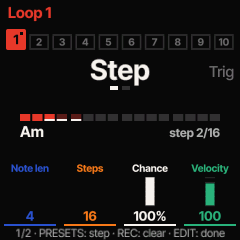
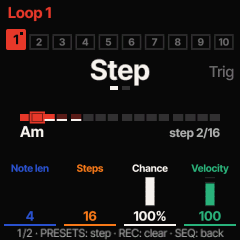
Docs: SEQ's cycle and the Metronome cell (LOOPER, MANUAL, INTEGRATION, SETTINGS, the 0.18 notes, HISTORY, the site, the loop editor's pictures)

Changed region(s): [[0.0583, 0.9333, 0.9625, 1.0], [0.1167, 0.4375, 0.2042, 0.525]]

diff --git a/web/site/index.html b/web/site/index.html
@@ -134,11 +134,11 @@
         <tr><td data-l="Printed">FX</td><td data-l="ChoralRoot"><span class="c-green">FX</span></td><td data-l="Tap">the effects on/off</td><td data-l="Hold">the FX layer: SELECT = the page (Sends, Reverb 1, Reverb 2, Chorus, Delay 1, Delay 2, Drive); KNOB 1–4 = its cells, Sends' four and KNOB 4 on an effect's first page = the chord part's sends; the effects and their sends are the instrument's and stay when the sound changes; the roots play; a tap is still on/off</td></tr>
         <tr><td data-l="Printed">ENV</td><td data-l="ChoralRoot"><span class="c-orange">BASS</span></td><td data-l="Tap">bass on/off (it comes back as last saved)</td><td data-l="Hold">the BASS layer: SELECT or KNOB 1 = Behaviour (Chords Only / Unison Bass / Bass Single Notes / Solo); KNOB 2–4 = Register / Sound / Level. BASS held + EDIT = the bass sound's editor</td></tr>
         <tr><td data-l="Printed">LFO</td><td data-l="ChoralRoot">LATCH</td><td data-l="Tap">latch on/off: notes sound on until the next ones; it keeps an arpeggio running</td><td data-l="Hold">—</td></tr>
-        <tr><td data-l="Printed">GLO</td><td data-l="ChoralRoot">OPT</td><td data-l="Tap">the Options open/close</td><td data-l="Hold">held + a knob = the knob's second job: PRESETS the chord sound's engine, ALGORITHM bass level, KNOB 1 split point, SELECT metronome level. In the editor: SHIFT</td></tr>
+        <tr><td data-l="Printed">GLO</td><td data-l="ChoralRoot">OPT</td><td data-l="Tap">the Options open/close</td><td data-l="Hold">held + a knob = the knob's second job: PRESETS the chord sound's engine, ALGORITHM bass level, KNOB 1 split point, SELECT metronome level; held + SEQ = metronome on/off. In the editor: SHIFT</td></tr>
         <tr><td data-l="Printed">HOME</td><td data-l="ChoralRoot">HOME</td><td data-l="Tap">back to the view from anywhere; on the view: the next view (Chord / Keyboard / Notes / Geek Out / Scope)</td><td data-l="Hold">0.6 s: the view menu: SELECT = the view, KNOB 1 = Lock</td></tr>
         <tr><td data-l="Printed">SAVE</td><td data-l="ChoralRoot">SAVE</td><td data-l="Tap">the save dialog: Overwrite, or Save as new, named with the keys</td><td data-l="Hold">save everything as it is now, the loop included (<code>saved</code>). With GLO, both held a second: back to the last save (<code>reverted</code>)</td></tr>
-        <tr><td data-l="Printed">SEQ</td><td data-l="ChoralRoot">METRO</td><td data-l="Tap">metronome on/off</td><td data-l="Hold">the METRO layer: SELECT = the time signature (4/4, 3/4, 6/8); KNOB 1 = the click's level</td></tr>
-        <tr><td data-l="Printed">PLAY</td><td data-l="ChoralRoot"><span class="c-red">LOOP</span></td><td data-l="Tap">play / stop the loop (green light = it plays); while recording: ends the take</td><td data-l="Hold">the PLAY menu: PRESETS = the slot, 1–10; ALGORITHM = the record mode; SELECT = the page; KNOB 1–4 = Length / Rate / Quantize / Count-in, page 2: KNOB 1 = Level; GLO = the keys play or pick slots; EDIT = the loop editor</td></tr>
+        <tr><td data-l="Printed">SEQ</td><td data-l="ChoralRoot">METRO</td><td data-l="Tap">the loop editor (the loop as a pattern of steps); again: the PLAY menu; again: back to the view. With GLO held: metronome on/off</td><td data-l="Hold">the METRO layer: SELECT = the time signature (4/4, 3/4, 6/8); KNOB 1 = the click's level</td></tr>
+        <tr><td data-l="Printed">PLAY</td><td data-l="ChoralRoot"><span class="c-red">LOOP</span></td><td data-l="Tap">play / stop the loop (green light = it plays); while recording: ends the take</td><td data-l="Hold">the PLAY menu: PRESETS = the slot, 1–10; ALGORITHM = the record mode; SELECT = the page; KNOB 1–4 = Length / Rate / Quantize / Count-in, page 2: KNOB 1 = Level, KNOB 2 = Metronome; GLO = the keys play or pick slots; EDIT = the loop editor</td></tr>
         <tr><td data-l="Printed">REC</td><td data-l="ChoralRoot"><span class="c-red">REC</span></td><td data-l="Tap">record, the way the record mode says; again: ends the take. The REC light blinks while recording</td><td data-l="Hold">undo the last layer</td></tr>
         <tr><td data-l="Printed">EDIT</td><td data-l="ChoralRoot">EDIT</td><td data-l="Tap">the sound editor on the chord sound</td><td data-l="Hold">the engine picker</td></tr>
         <tr><td data-l="Printed">OCT− / OCT+</td><td data-l="ChoralRoot">OCTAVE</td><td data-l="Tap">the octave of the roots; in layers, menus and dialogs: back (closes) / confirm (closes too where there is nothing to confirm)</td><td data-l="Hold">both together: PANIC (every note off, on MIDI too; the octave back to 0, the LOCK latch cleared, LATCH off, the loop stopped)</td></tr>

diff --git a/docs/MANUAL.md b/docs/MANUAL.md
@@ -148,7 +148,7 @@ Two rows of six, and the two octave buttons.
 | HOME | **HOME** | back to the view; on the view: the next view | 0.6 s: the view menu |
 | SAVE | **SAVE** | save the sound | held: **save everything** (`saved`). GLO + SAVE held 1 s: back to the last save (`reverted`) |
 | ARP | **PERF** | performance on / off | the PERF layer |
-| SEQ | **METRO** | metronome on / off | the METRO layer |
+| SEQ | **METRO** | the loop editor, then the PLAY menu, then back to the view ([The loop editor](#the-loop-editor)). With OPT (GLO) held: metronome on / off | the METRO layer |
 | PLAY | **LOOP** | play / stop the loop | the PLAY menu |
 | REC | **REC** | record | undo the last layer |
 | OCT- / OCT+ | octave | the roots an octave down / up; in layers, menus and dialogs: back / OK | both together: PANIC |
@@ -198,7 +198,9 @@ MIDI message wakes it and does its normal job at the same time.
 
 | Light | Means |
 | --- | --- |
-| KEY, PERF, FX, BASS, LATCH, METRO lit | that function is on |
+| KEY, PERF, FX, BASS, LATCH lit | that function is on |
+| METRO (SEQ) and EDIT blinking together | the loop editor is open: either of them goes back to the PLAY menu |
+| METRO (SEQ) lit | the PLAY menu is open: SEQ leaves it |
 | a layer button blinking | its layer is open |
 | EDIT blinking | the sound editor (or the engine picker) is open |
 | OPT lit | the Options are open (in the PLAY menu: Keys = Loops; in the KEY layer: its keys play; in the editor: SHIFT) |
@@ -459,7 +461,7 @@ KEY, PERF, FX, BASS, METRO and LOOP.
 | PERF | PERF (ARP) | the performance mode | play as usual | performance on / off | close |
 | FX | FX | the effect | play as usual | effects on / off | close |
 | BASS | BASS (ENV) | the bass behaviour | the white keys D4 E4 F4 G4 pick the behaviour; nothing sounds | bass on / off | close |
-| METRO | METRO (SEQ) | the time signature | D4 E4 F4 pick 4/4, 3/4, 6/8 | metronome on / off | close |
+| METRO | METRO (SEQ) | the time signature | D4 E4 F4 pick 4/4, 3/4, 6/8 | metronome on / off (in this layer only; on the view a tap is the loop editor) | close |
 | PLAY menu | LOOP (PLAY) | see [The looper](#10-the-looper) | play, or pick loop slots | play / stop | close (in step entry: back a step / a rest) |
 
 Three more things open the same way and are described in their own chapters: **EDIT** held is the engine picker
@@ -644,7 +646,10 @@ one to three short gaps in it ([What the FM-1 remembers](#what-the-fm-1-remember
 ## 9. Tempo and metronome
 
 - **SELECT** sets the tempo, 20 to 300 BPM. Arpeggios, patterns, the delay, the loop and the MIDI clock follow it.
-- **METRO** (printed SEQ) tap switches the click on and off (`metronome on`).
+- The click is switched on and off in the **PLAY menu**: hold LOOP, turn SELECT to page 2, **KNOB 2 is Metronome**,
+  On or Off.
+- From anywhere outside the sound editor, **hold OPT (GLO) and tap METRO** (printed SEQ) for the same thing
+  (`metronome on`). METRO tapped by itself opens the loop editor (until 0.18 it was the click).
 - Hold METRO for the **METRO layer**: SELECT (or D4, E4, F4) picks the time signature, 4/4, 3/4 or 6/8; KNOB 1 is the
   click's level. OPT + SELECT sets the level without opening the layer.
 - The click is not part of the USB recording.
@@ -710,9 +715,11 @@ playing and recording with it open.
 | page 1, KNOB 2 | **Rate**: x1/16, x1/12, x1/8, x1/6, x1/4, x1/2, x3/4, x1, x1.5, x2, x4 | x1 |
 | page 1, KNOB 3 | **Quantize**: none, 1/4, 1/8, 1/8T, 1/16, 1/16T, 1/32 | none |
 | page 1, KNOB 4 | **Count-in**: On or Off | On |
-| page 2, KNOB 1 | **Level**: how loud the loop plays, 0 to 100 (0 mutes it). KNOB 2 to 4 do nothing on this page | 100 |
+| page 2, KNOB 1 | **Level**: how loud the loop plays, 0 to 100 (0 mutes it) | 100 |
+| page 2, KNOB 2 | **Metronome**: On or Off ([Tempo and metronome](#9-tempo-and-metronome)). KNOB 3 and 4 do nothing on this page | Off |
 | OPT (GLO) tap | **what the keys do** in the menu: play, or the loop shortcuts (below). The bottom line says which. The Options do not open from here | play |
 | EDIT | the **loop editor** ([below](#the-loop-editor)) | |
+| METRO (SEQ) | leaves the PLAY menu, back to the main screen (its light is lit while the menu is open) | |
 
 While a loop records or plays, the middle of the menu is a timeline: the bars, a line of marks for each layer, the
 playhead. These settings are kept by a global save (SAVE held), like the rest of how the FM-1 is set up to play.
@@ -779,8 +786,12 @@ number.
 
 ### The loop editor
 
-In the PLAY menu, tap **EDIT**. The loop in memory is shown as a pattern of steps, and you can change it one step at a
-time. (Outside the PLAY menu EDIT is the sound editor, as ever.)
+On the main screen, tap **SEQ** (the METRO button). The loop in memory is shown as a pattern of steps, and you can
+change it one step at a time. **SEQ goes round three places**: the main screen, the loop editor, the PLAY menu, and
+the main screen again. So from the editor one tap of SEQ is the PLAY menu (the slots, the record mode, Length, Rate,
+the metronome) and one more is back where you started. In the PLAY menu **EDIT** opens the same editor. (Outside the
+PLAY menu EDIT is the sound editor, as ever.) SEQ does not open the editor from another layer, the Options or the
+sound editor, and not while a take is being recorded (`end the take first`).
 
 <img src="manual/loop-editor.png" width="240" alt="The loop editor, page Step: a row of sixteen steps, three red, the second outlined, a white line under the next three; Am, step 2/16; cells Note len 4, Steps 16, Chance 100%, Velocity 100">
 <img src="manual/loop-editor-trig.png" width="240" alt="The loop editor, page Trig: the same row, the second step with a notch in its corner; cells Ratchet x2, Condition 1:2, Voicing +2">
@@ -809,7 +820,8 @@ chord is named under the grid. While the loop plays, the step being played light
 | KNOB 3 | **Voicing**: Follow, or a voicing of its own, -12 to +12 (the same as ALGORITHM) |
 | LOOP tap | play / stop, as ever, so you hear the edits in place. The cursor does not follow the playback; the white step does |
 | REC held | the looper's undo (see below) |
-| HOME, EDIT (tap or hold) | close the editor, back to the PLAY menu. Nothing to confirm: an edit is done when you make it |
+| SEQ, EDIT (tap or hold), LOOP held | close the editor, back to the PLAY menu. Nothing to confirm: an edit is done when you make it. The bottom line says `SEQ: back` |
+| HOME | closes the editor and the PLAY menu: the main screen |
 
 **Ratchet, Condition, Chance and Voicing belong to the step**: to everything that starts in it, the chord and, with
 Split Bass, the bass note. A step that has a ratchet, a condition or a chance under 100 % shows a small notch in its
@@ -1464,7 +1476,7 @@ More: [BOOT-SAFETY.md](BOOT-SAFETY.md), [INSTALL-COMPAT.md](INSTALL-COMPAT.md), 
 | The chord sound is silent, the bass plays | Bass Behaviour is Solo (`Bass Solo`) | BASS layer, another behaviour, or tap BASS |
 | No bass | the bass is off (a new unit, a reset, or you switched it off) | tap BASS |
 | The bass layer's keys make no sound | in that layer the white keys pick the behaviour | close the layer to play |
-| The loop plays but is silent | its Level is 0 | PLAY menu, KNOB 3 |
+| The loop plays but is silent | its Level is 0 | PLAY menu, page 2, KNOB 1 |
 | REC replaced my loop | the record mode is Overwrite | PLAY menu, ALGORITHM: Overdub. Before the first chord, REC again cancels |
 | In step entry two notes land on the same step | they were held together | let go of the first before pressing the next; OCT- goes back |
 | Step entry says `64 steps: full` | a pattern has 64 steps at most | REC to finish; OCT- to go back and change a step |
@@ -1508,12 +1520,12 @@ A held layer button opens its layer and it stays; holding the same button again 
 | ENV | BASS | bass on / off | BASS layer: SELECT behaviour · KNOB 1 Behaviour · 2 Register · 3 Sound · 4 Level. Held + EDIT: edit the bass sound. Held + SAVE: save it |
 | LFO | LATCH | latch on / off | |
 | EDIT | EDIT | the sound editor; in it: leave | the engine picker: SELECT engine · KNOB 1 presets · KNOB 2 init · the keys play · OCT+ keep · OCT- cancel |
-| GLO | OPT | Options (SELECT setting · KNOB 1 value). In the PLAY menu: its keys play / loops. In the KEY layer: its keys pick / play. In the editor: SHIFT latch | + **SAVE, both held 1 s: revert to the last save** · + PRESETS: engine · + ALGORITHM: bass level · + KNOB 1: split point · + SELECT: click level. In the editor: fine steps; + EDIT: chord / bass sound |
+| GLO | OPT | Options (SELECT setting · KNOB 1 value). In the PLAY menu: its keys play / loops. In the KEY layer: its keys pick / play. In the editor: SHIFT latch | + **SAVE, both held 1 s: revert to the last save** · + PRESETS: engine · + ALGORITHM: bass level · + KNOB 1: split point · + SELECT: click level · + SEQ: metronome on / off. In the editor: fine steps; + EDIT: chord / bass sound |
 | HOME | HOME | back; on the view: next view | 0.6 s: the view menu (SELECT view · KNOB 1 lock) |
 | SAVE | SAVE | the save dialog: KNOB 1 Overwrite / Save as new · OCT+ takes it · held 1 s: delete / reset | **the global save**: everything as it is now, and the loop (`saved`). With GLO, both held 1 s: revert (`reverted`) |
 | ARP | PERF | performance on / off (in its layer too) | PERF layer: SELECT mode · KNOB 1-4 its parameters |
-| SEQ | METRO | metronome on / off | METRO layer: SELECT time signature · KNOB 1 Click |
-| PLAY | LOOP | play / stop the loop; ends a take | PLAY menu: PRESETS slot · ALGORITHM record mode · SELECT page · page 1: KNOB 1 Length · 2 Rate · 3 Quantize · 4 Count-in · page 2: KNOB 1 Level · GLO: its keys play / loops · EDIT: the loop editor (PRESETS step, with GLO 8 steps · SELECT page · ALGORITHM the step's voicing · the keys replace it · REC clears it · OCT the octave · page 1: KNOB 1 Note len · 2 Steps, with GLO to 8 16 32 48 64 · 3 Chance · 4 Velocity · page 2: KNOB 1 Ratchet · 2 Condition · 3 Voicing · HOME or EDIT closes it) |
+| SEQ | METRO | the loop editor; in it: the PLAY menu; in the PLAY menu: leave. With GLO held: metronome on / off | METRO layer: SELECT time signature · KNOB 1 Click · a tap there: metronome on / off |
+| PLAY | LOOP | play / stop the loop; ends a take | PLAY menu: PRESETS slot · ALGORITHM record mode · SELECT page · page 1: KNOB 1 Length · 2 Rate · 3 Quantize · 4 Count-in · page 2: KNOB 1 Level · 2 Metronome · GLO: its keys play / loops · SEQ: leave · EDIT: the loop editor (PRESETS step, with GLO 8 steps · SELECT page · ALGORITHM the step's voicing · the keys replace it · REC clears it · OCT the octave · page 1: KNOB 1 Note len · 2 Steps, with GLO to 8 16 32 48 64 · 3 Chance · 4 Velocity · page 2: KNOB 1 Ratchet · 2 Condition · 3 Voicing · SEQ, EDIT or LOOP held: the PLAY menu · HOME: the view) |
 | REC | REC | record by the record mode; ends a take; cancels when armed | undo the last layer |
 | OCT- | octave down | roots down an octave (to -2). In layers, menus, dialogs: back / cancel (closes). In step entry: back a step | in the editor, + a knob: clear that parameter's modulation |
 | OCT+ | octave up | roots up an octave (to +2). In layers, menus, dialogs: confirm (keep, save, do it); where there is nothing to confirm it closes, as OCT-. In step entry: a rest | |

diff --git a/docs/LOOPER.md b/docs/LOOPER.md
@@ -78,8 +78,10 @@ chord part. Until 0.17 it was recorded as an ordinary single note and came back 
 - **Clear**: D#4 held 1 s in the PLAY menu with its keys on loops (GLO). **Panic**: stops, keeps the
   loop; a fresh take is dropped (a take only armed or counting in: the loop kept), a partial overdub kept. **Level**
   (page 2, KNOB 1) scales the loop's velocities (0 = mute).
-- **Metronome**: METRO tap = click on/off (on the take's / the loop's / its own grid), held = 4/4 3/4 6/8 picker,
-  KNOB 1 there or OPT + SELECT = click level. The click is a 25 ms two-pole sine burst mixed after fx.c (cr_out.c
+- **Metronome**: on / off in the PLAY menu (page 2, KNOB 2) or by GLO held + SEQ from anywhere but the sound editor
+  (`metronome on`; SEQ's tap was the click until 2026-10-11: it is the loop editor's key now, below); it clicks on the
+  take's / the loop's / its own grid. SEQ (METRO) held = 4/4 3/4 6/8 picker (a SEQ tap in that layer is still the
+  click on / off: the layer's own button), KNOB 1 there or OPT + SELECT = click level. The click is a 25 ms two-pole sine burst mixed after fx.c (cr_out.c
   `cr_click_mix`), 2.5 kHz on the bar's first beat.
 
 ## The Rate (0.18)
@@ -211,9 +213,10 @@ stops; in step entry OCT+ is a rest and OCT- a step back). Mock-ups: `design/cho
 | ALGORITHM | the **record mode** (Overwrite · Advance · Overdub · Replace · Step, the picker band) |
 | SELECT | the **page** (`cu.lpage`, the first whenever the menu opens; the owner 2026-10-11: "turn the select knob to change the page. It currently changes length") |
 | page 1: KNOB 1 / 2 / 3 / 4 | **Length** (Free 1 2 4 8 16 bars; also big in the middle while idle; while the timeline shows, the message "next take: 4 bars") / **Rate** (x1/16 .. x4) / **Quantize** (echoes) / **Count-in** (gate): the cell hot 800 ms, no popup |
-| page 2: KNOB 1 | **Level** (bar); KNOB 2 .. 4: nothing (empty cells) |
+| page 2: KNOB 1 / 2 | **Level** (bar) / **Metronome** (On / Off, the gate glyph as Count-in: right on, left off; `cs.metro`, stored where it was: the owner 2026-10-11: "Add Metronome to the second param page of the play menu"); KNOB 3 / 4: nothing (empty cells) |
 | GLO tap | **the keys**: play (default) = the roots and the chord block play as on the chord view, so the menu stays open while you play into a take; loops = the slot shortcuts (white roots D4..F5 slots 1..10, D#4 held 1 s clear, F#4 undo) and their LED map, GLO lit. No Options from this menu. The Keys cell of 0.17 (KNOB 4) is gone: "get rid of the Keys / play shortcut and map this to the GLO button like in other pages" |
 | EDIT tap | **the loop editor** (below) |
+| SEQ tap | **out of the menu**, to the view, however the menu was entered (the third step of SEQ's cycle: the view, the editor, the PLAY menu, the view; below). SEQ's LED is lit in the menu |
 | REC tap / held | by the record mode / undo, as outside the menu |
 | LOOP held again | closes the menu. **With a knob turned while LOOP is still down the menu opens again and the knob acts in it** (2026-10-13): until then LOOP held + PRESETS with the menu already open chose a slot when turned within the hold time and changed the chord sound's preset when turned after it, the menu having closed under the hand ("sometimes in the play menu turning the preset knob ends up changing the preset"; `cu.hclosed`, `tools/emu/scripts/cr_loop_presetknob.txt`). The same for every layer's own button |
 
@@ -238,7 +241,7 @@ the right "Rec · Overwrite" (armed: the mode; also outside the menu), "Rec 2.4"
 | --- | --- | --- |
 | LOOP tap | play (a take: commit; step entry: commit and play) | stop |
 | LOOP held | the PLAY menu (above) | the same, the timeline in the middle, the corner dial in the top line |
-| EDIT tap in the PLAY menu | the loop editor | the same (the loop plays on) |
+| SEQ tap on the view; EDIT tap in the PLAY menu | the loop editor | the same (the loop plays on) |
 | REC tap | by the record mode (above) | the same; ends a take / layer / step entry |
 | REC held | undo: the layers left huge in red ("layers · undo"); none: "nothing to undo" | the same |
 | OCT+ / OCT- in step entry | a rest / back one step | — |
@@ -306,6 +309,7 @@ version 1, and 0.14 .. 0.17 read an edited loop's record as any other (`tests/cr
 
 | gesture | does |
 | --- | --- |
+| **SEQ tap on the view** (2026-10-11) | opens it from the main screen, whichever view shows, with the same refusals (then SEQ does nothing else) and the same empty pattern as below (`cu_seq_tap`: the PLAY menu is locked open under it). **SEQ is a cycle of three**: the view -> the editor -> the PLAY menu (the editor closed, the menu as if LOOP had been held) -> the view. The owner: "The edit sequence is a bit buried, hold Play, then press edit. Most people won't find this ... from Main level you should be able to press the seq key to enter the edit sequence menu", then: "press once -> sequencer, press SEQ a second time -> Play menu, press SEQ a third time -> Exit". In KEY, PERF, FX, BASS, LOCK, the view menu, the engine picker, the Options and the save dialog SEQ tapped does nothing (it toggled the click there); in the sound editor it is the MOD group; in the METRO layer the click on / off |
 | EDIT tap in the PLAY menu | opens it (`cr_loop_ed_open`), **at any Quantize setting** (the first build refused a loop with Quantize none: `set Quantize to edit`). Refused: a slot switch on its way (`a slot is on its way`); a capture open (`end the take first`). An empty slot: an empty pattern of the set Length (Free: a bar, 16 steps; more than 64 steps: its first whole bars within 64), which is the slot empty again if nothing is entered |
 | PRESETS | the **step cursor**, a step a detent, wrapping at the loop's end (`cu_ledit_move`). **GLO held + PRESETS**: 8 steps a detent, wrapping the same way. Never the slot, never the chord sound, while the editor is open. (Until 2026-10-13 the cursor was SELECT and KNOB 1) |
 | SELECT | the editor's **page**, clamped: 1 **Step**, 2 **Trig** (`cu.le_page`, the first whenever it opens). The page's name stands where the record mode does, with the picker's two marks; the bottom line begins `1/2` / `2/2` |
@@ -327,7 +331,9 @@ version 1, and 0.14 .. 0.17 read an edited loop's record as any other (`tests/cr
 | LOOP tap | play / stop from the loop's start, as ever; the cursor does not follow the playback, the playhead shows it. A length changed under the playhead: the playhead where it is in the new cycle (`crl_ed_renorm`) |
 | REC held | the looper's undo, as outside (below) |
 | GLO tapped | nothing (the keys play; GLO held is the shift of PRESETS and Steps above) |
-| HOME / EDIT tapped / EDIT held again | close it, back to the PLAY menu (`cr_loop_ed_close`): nothing to confirm, an edit is applied when it is made. LOOP held again, another layer, a revert: the menu and the editor close. A knob turned while EDIT is still down after closing it by the hold does nothing (it would be the PLAY menu's: PRESETS there is the slot) |
+| SEQ / EDIT tapped, EDIT or SEQ held again | close it, back to the PLAY menu (`cr_loop_ed_close`), however it was opened: nothing to confirm, an edit is applied when it is made. A knob turned while EDIT or SEQ is still down after closing it by the hold does nothing (it would be the PLAY menu's: PRESETS there is the slot). **No METRO layer from the editor**: SEQ held there closes it, and SEQ held + a knob inside the hold time leaves the knob the editor's (`cu_activity`; `tools/emu/scripts/cr_seq.txt`) |
+| **LOOP held** | the PLAY menu: the editor closes, the menu stays (the owner, 2026-10-11: "from the Sequencer, holding the play key should enter the Play Menu, not return to home"; until then it closed the menu with the editor). A knob turned with LOOP still down is the menu's (PRESETS: the slot), never the sound's. A LOOP tap is play / stop as ever, the editor stays |
+| HOME | the view: the editor and the menu close (it went back to the PLAY menu until 2026-10-11; with SEQ's cycle HOME is "home" here as everywhere). Another layer, a revert: the same |
 
 ### Ratchet, condition, chance, voicing (2026-10-13; `crl_data_t.st`, `cr_loop.c crl_play_ev`)
 
@@ -386,7 +392,8 @@ sounds on into carry a white line along their bottom (`lm_lane[2]`), so turning 
 over the following steps and to move nothing. While the loop plays, the step being played is white (grey when empty:
 `CR_LM_PLAY` in `lm_pos`; only its rows' strips are redrawn). Under the grid the selected step's chord, big, and `step
 5/16`; the cells Note len / Steps / Chance / Velocity (page 1) or Ratchet / Condition / Voicing (page 2); the bottom
-line `1/2 · PRESETS: step · REC: clear · EDIT: done`. **A take longer than 64 steps is paged**: the cursor walks all its
+line `1/2 · PRESETS: step · REC: clear · SEQ: back` (`EDIT: done` until 2026-10-11; both keys go back to the PLAY
+menu, the line names the one that opens the editor from the view: `EDIT/SEQ` does not fit `foot`'s 47 characters). **A take longer than 64 steps is paged**: the cursor walks all its
 steps and the grid shows the 64 the cursor is in (`step 70/128 · p2`); one page was chosen over a scrolling row
 because a pattern fits it whole, and a page turns only for loops no step sequencer made.
 

diff --git a/docs/HISTORY.md b/docs/HISTORY.md
@@ -675,3 +675,33 @@ at x1/16 and 120 BPM). Tests: `cr_loop_test.c` `s_rate` over 48 bars for all ele
 `cr_settings_test.c`, `tools/emu/scripts/cr_loop_rate.txt`. Seen on the way: `docs/manual/shots.txt` no longer gives
 the committed `loop-editor.png` / `loop-editor-trig.png` byte for byte (the cursor's blink phase at the shot: main's
 pictures show it off, a run today shows it on); they were left as they are.
+
+**0.18 dev, 2026-10-11 (built, not flashed): SEQ is the loop editor's key; Metronome on the PLAY menu's page 2.** The
+owner: "The edit sequence is a bit buried, hold Play, then press edit. Most people won't find this. The Seq key is
+currently toggling the metronome on and off. I think from Main level you should be able to press the seq key to enter
+the edit sequence menu, press it again to exit. Add Metronome to the second param page of the play menu." And, the
+same day, on the first design (SEQ in and out, the editor returning to where it was opened from): "With new SEQ
+shortcut to enter editor from main, press once -> sequencer, press SEQ a second time -> Play menu, press SEQ a third
+time -> Exit. Also from the Sequencer, holding the play key should enter the Play Menu, not return to home."
+`cr_ui.c cu_seq_tap`, a cycle of three: on the view (no layer, no Options, no page) SEQ opens the loop editor, the
+PLAY menu locked open under it, with `cu_ledit_open`'s refusals (then nothing); in the editor it closes it to the
+PLAY menu, however the editor was opened; in the PLAY menu it closes the menu, however that was entered (EDIT stays
+the menu's way into the editor). In the editor **LOOP held** closes the editor and keeps the menu (it closed both:
+the layer's own button held again), and a knob turned with LOOP still down is the menu's (PRESETS: the slot); a
+LOOP tap is play / stop as it was. EDIT: the PLAY menu, as it was. **HOME from the editor is the view** (it stopped
+at the PLAY menu; `cr_loop_edit.txt` and `cr_loop_trig.txt` left the editor by HOME to get to the menu and use EDIT
+now). In the other layers, the Options and the save dialog a SEQ tap does nothing (it toggled the click there); the
+sound editor keeps it as MOD; the METRO layer (SEQ held) keeps its own button's tap, the click on / off. The click's
+switch is the **Metronome** cell on the PLAY menu's page 2, KNOB 2 (the gate glyph, as Count-in; page 2 had Level
+alone), and, added by us, **GLO held + SEQ** from anywhere but the sound editor, with the message; `cs.metro` is
+stored where it was, no format changed. The SEQ LED showed the click; now it blinks with EDIT's in the loop editor,
+is lit in the PLAY menu and dark on the view (the three places of its cycle). The editor's bottom line ends `SEQ:
+back` (`EDIT/SEQ` does not fit: `foot` holds 47 characters). SEQ's hold: the METRO layer as before, except in the
+loop editor, where SEQ held closes it as EDIT held does and a knob turned with it still down does nothing, and SEQ
+held + a knob inside the hold time stays the editor's knob: otherwise PRESETS there (the step cursor) would have
+reached the chord sound through the METRO layer, the fault of 2026-10-13 by a new way. Tests:
+`tools/emu/scripts/cr_seq.txt` (23 states), `cr_loop_row.txt`, `cr_draw_test.c` (the cell, its label whole); the
+manual's `loop-editor.png` / `loop-editor-trig.png` are new (the bottom line). Not renamed: the button is still METRO
+in the manual's tables and on the panel pictures, though its tap is the editor now: the owner's call. Seen on the
+way: the manual's troubleshooting table sent a silent loop to "PLAY menu, KNOB 3" (Level is page 2, KNOB 1 since
+0.18): corrected.

diff --git a/docs/INTEGRATION.md b/docs/INTEGRATION.md
@@ -325,7 +325,7 @@ a button pressed during another's hold is that hold's combo (its release does no
 | EDIT | EDIT | the sound editor (again: leave; in the engine picker: keep its sound, close it) | the engine picker (a preview: OCT− cancels, OCT+ keeps): SELECT the engine, KNOB 1 its presets, KNOB 2 init; the roots and the chord keys play (0.18: until then the white roots chose the engine unless KNOB 4 set them to play) |
 | HOME | HOME | close the layer / page / menu (the view unchanged); on the view: next View **unless the view is locked** | **600 ms: the view menu** (`L_VIEW`, a picker: Chord · Keyboard · Notes · Geek Out · Scope by SELECT / the white roots, the last line "Lock: On / Off": KNOB 1 or the sixth white root; OCT+ ok, OCT− / HOME back; Settings v9 `view_lock`, the same view as Options > View) |
 | SAVE | SAVE | save sound (naming; in it: save, as OCT+) | **the global save** (0.18, `cu_gsave`: at the hold time, alone: the settings block, the session and the loop in RAM if they changed; "saved"; while a loop plays or a capture is open: "saves at stop"). GLO + SAVE held 1 s: **the revert** ("reverted"). Until 0.17: save / load / delete loops |
-| SEQ | METRO | metronome on/off | the knob row: the time signature over Click (KNOB 1, hot; no popup) and three empty cells |
+| SEQ | METRO | the loop editor (0.18; docs/LOOPER.md; the metronome on/off until then: now the PLAY menu's page 2, GLO + SEQ, and SEQ in its own layer) | the knob row: the time signature over Click (KNOB 1, hot; no popup) and three empty cells |
 | PLAY | LOOP | play / stop | the knob row, no ring: slots on white roots, D#4 CLEAR (hold), F#4 UNDO; KNOB 1 the length picker, 2–4 Quantize Count-in Level cells (hot, no popups); playing: the action picker, OCT+ does it, Sync dim, the dial |
 | REC | REC | record / overdub arm | undo the last layer (not a layer) |
 | OCT−/OCT+ | | octave −2..+2; in a layer or picker: back / confirm (nothing to confirm: close) | **both: PANIC** (the LOCK latch cleared) |

diff --git a/docs/releases/0.18.md b/docs/releases/0.18.md
@@ -286,3 +286,15 @@ play by hand at a very slow rate is stored more coarsely (at x1/16 and 120 BPM t
 you enter are exact), and a Length in bars counts the loop's own bars (1 bar at x1/16 is 16 bars of the metronome).
 Your saved Rate is kept. If you go back to an earlier 0.18 build with one of the four new rates saved, that build
 starts at x1.
+
+**SEQ opens the loop editor; the metronome moved into the PLAY menu.** The loop editor was two steps away (hold LOOP,
+then EDIT). Now **tap SEQ on the main screen** and you are in it. SEQ goes round three places: the main screen, the
+loop editor, the PLAY menu, the main screen. So a second tap is the PLAY menu and a third brings you back; in the
+PLAY menu SEQ always leaves, however you got there, and EDIT opens the editor as before. In the editor, **holding
+LOOP now goes to the PLAY menu** (it used to drop you on the main screen), EDIT goes back to the PLAY menu as it did,
+and **HOME goes to the main screen** (it used to stop at the PLAY menu). The editor's bottom line ends `SEQ: back`;
+the SEQ light blinks with EDIT's in the editor and is lit in the PLAY menu. SEQ no longer switches the metronome:
+that is **Metronome, On / Off, on KNOB 2 of the PLAY menu's page 2** (beside Level), and from anywhere outside the
+sound editor **GLO held + SEQ** (`metronome on`). Holding SEQ is still the METRO layer (time signature, click level),
+and a SEQ tap in that layer still switches the click. In the other layers and in the Options a SEQ tap does nothing.
+Your saved metronome setting is kept.

diff --git a/docs/SETTINGS.md b/docs/SETTINGS.md
@@ -72,7 +72,7 @@ from a layer: it goes with the layer (manual).
 | the looper: Length, Quantize, Count-in, Level, the record mode, the PLAY menu's keys | the PLAY menu | block `loop_sync`, `loop_quant`, `loop_count_in`, `loop_level`, `loop_rec` bits 0..4 | manual |
 | the looper's Rate | the PLAY menu's KNOB 2 | session `loop_rate` | manual |
 | the loop slot selected | the PLAY menu's PRESETS | block `loop_slot` | manual |
-| the metronome: on, time signature, level | METRO tap, the METRO layer, OPT + SELECT | block `metro_on`, `metro_sig`, `metro_vol` | manual |
+| the metronome: on, time signature, level | the PLAY menu's page 2 (KNOB 2), GLO + SEQ, the METRO layer, OPT + SELECT | block `metro_on`, `metro_sig`, `metro_vol` | manual |
 | the voicing, the octave | KNOB 1, OCT | session `voicing`, `octave` | manual |
 | Bass on | BASS tap | session `bass_on` | manual |
 | LOCK on, the chord keys it latched | B3 | session `lock`, `latched` | manual |
